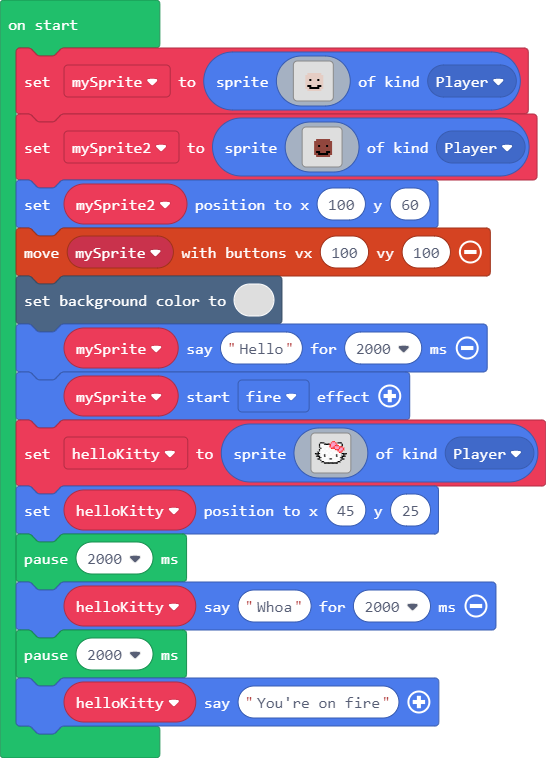
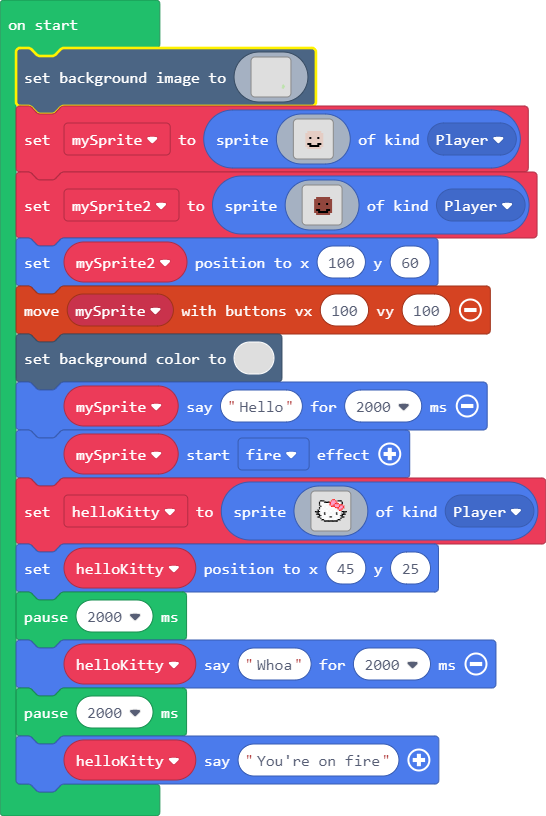
Added tree to background image

diff --git a/main.ts b/main.ts
@@ -1,3 +1,125 @@
+scene.setBackgroundImage(img`
+. . . . . . . . . . . . . . . . . . . . . . . . . . . . . . . . . . . . . . . . . . . . . . . . . . . . . . . . . . . . . . . . . . . . . . . . . . . . . . . . . . . . . . . . . . . . . . . . . . . . . . . . . . . . . . . . . . . . . . . . . . . . . . . . . . . . . . . . . . . . . . . . . . . . . . . . . . . . . . . . 
+. . . . . . . . . . . . . . . . . . . . . . . . . . . . . . . . . . . . . . . . . . . . . . . . . . . . . . . . . . . . . . . . . . . . . . . . . . . . . . . . . . . . . . . . . . . . . . . . . . . . . . . . . . . . . . . . . . . . . . . . . . . . . . . . . . . . . . . . . . . . . . . . . . . . . . . . . . . . . . . . 
+. . . . . . . . . . . . . . . . . . . . . . . . . . . . . . . . . . . . . . . . . . . . . . . . . . . . . . . . . . . . . . . . . . . . . . . . . . . . . . . . . . . . . . . . . . . . . . . . . . . . . . . . . . . . . . . . . . . . . . . . . . . . . . . . . . . . . . . . . . . . . . . . . . . . . . . . . . . . . . . . 
+. . . . . . . . . . . . . . . . . . . . . . . . . . . . . . . . . . . . . . . . . . . . . . . . . . . . . . . . . . . . . . . . . . . . . . . . . . . . . . . . . . . . . . . . . . . . . . . . . . . . . . . . . . . . . . . . . . . . . . . . . . . . . . . . . . . . . . . . . . . . . . . . . . . . . . . . . . . . . . . . 
+. . . . . . . . . . . . . . . . . . . . . . . . . . . . . . . . . . . . . . . . . . . . . . . . . . . . . . . . . . . . . . . . . . . . . . . . . . . . . . . . . . . . . . . . . . . . . . . . . . . . . . . . . . . . . . . . . . . . . . . . . . . . . . . . . . . . . . . . . . . . . . . . . . . . . . . . . . . . . . . . 
+. . . . . . . . . . . . . . . . . . . . . . . . . . . . . . . . . . . . . . . . . . . . . . . . . . . . . . . . . . . . . . . . . . . . . . . . . . . . . . . . . . . . . . . . . . . . . . . . . . . . . . . . . . . . . . . . . . . . . . . . . . . . . . . . . . . . . . . . . . . . . . . . . . . . . . . . . . . . . . . . 
+. . . . . . . . . . . . . . . . . . . . . . . . . . . . . . . . . . . . . . . . . . . . . . . . . . . . . . . . . . . . . . . . . . . . . . . . . . . . . . . . . . . . . . . . . . . . . . . . . . . . . . . . . . . . . . . . . . . . . . . . . . . . . . . . . . . . . . . . . . . . . . . . . . . . . . . . . . . . . . . . 
+. . . . . . . . . . . . . . . . . . . . . . . . . . . . . . . . . . . . . . . . . . . . . . . . . . . . . . . . . . . . . . . . . . . . . . . . . . . . . . . . . . . . . . . . . . . . . . . . . . . . . . . . . . . . . . . . . . . . . . . . . . . . . . . . . . . . . . . . . . . . . . . . . . . . . . . . . . . . . . . . 
+. . . . . . . . . . . . . . . . . . . . . . . . . . . . . . . . . . . . . . . . . . . . . . . . . . . . . . . . . . . . . . . . . . . . . . . . . . . . . . . . . . . . . . . . . . . . . . . . . . . . . . . . . . . . . . . . . . . . . . . . . . . . . . . . . . . . . . . . . . . . . . . . . . . . . . . . . . . . . . . . 
+. . . . . . . . . . . . . . . . . . . . . . . . . . . . . . . . . . . . . . . . . . . . . . . . . . . . . . . . . . . . . . . . . . . . . . . . . . . . . . . . . . . . . . . . . . . . . . . . . . . . . . . . . . . . . . . . . . . . . . . . . . . . . . . . . . . . . . . . . . . . . . . . . . . . . . . . . . . . . . . . 
+. . . . . . . . . . . . . . . . . . . . . . . . . . . . . . . . . . . . . . . . . . . . . . . . . . . . . . . . . . . . . . . . . . . . . . . . . . . . . . . . . . . . . . . . . . . . . . . . . . . . . . . . . . . . . . . . . . . . . . . . . . . . . . . . . . . . . . . . . . . . . . . . . . . . . . . . . . . . . . . . 
+. . . . . . . . . . . . . . . . . . . . . . . . . . . . . . . . . . . . . . . . . . . . . . . . . . . . . . . . . . . . . . . . . . . . . . . . . . . . . . . . . . . . . . . . . . . . . . . . . . . . . . . . . . . . . . . . . . . . . . . . . . . . . . . . . . . . . . . . . . . . . . . . . . . . . . . . . . . . . . . . 
+. . . . . . . . . . . . . . . . . . . . . . . . . . . . . . . . . . . . . . . . . . . . . . . . . . . . . . . . . . . . . . . . . . . . . . . . . . . . . . . . . . . . . . . . . . . . . . . . . . . . . . . . . . . . . . . . . . . . . . . . . . . . . . . . . . . . . . . . . . . . . . . . . . . . . . . . . . . . . . . . 
+. . . . . . . . . . . . . . . . . . . . . . . . . . . . . . . . . . . . . . . . . . . . . . . . . . . . . . . . . . . . . . . . . . . . . . . . . . . . . . . . . . . . . . . . . . . . . . . . . . . . . . . . . . . . . . . . . . . . . . . . . . . . . . . . . . . . . . . . . . . . . . . . . . . . . . . . . . . . . . . . 
+. . . . . . . . . . . . . . . . . . . . . . . . . . . . . . . . . . . . . . . . . . . . . . . . . . . . . . . . . . . . . . . . . . . . . . . . . . . . . . . . . . . . . . . . . . . . . . . . . . . . . . . . . . . . . . . . . . . . . . . . . . . . . . . . . . . . . . . . . . . . . . . . . . . . . . . . . . . . . . . . 
+. . . . . . . . . . . . . . . . . . . . . . . . . . . . . . . . . . . . . . . . . . . . . . . . . . . . . . . . . . . . . . . . . . . . . . . . . . . . . . . . . . . . . . . . . . . . . . . . . . . . . . . . . . . . . . . . . . . . . . . . . . . . . . . . . . . . . . . . . . . . . . . . . . . . . . . . . . . . . . . . 
+. . . . . . . . . . . . . . . . . . . . . . . . . . . . . . . . . . . . . . . . . . . . . . . . . . . . . . . . . . . . . . . . . . . . . . . . . . . . . . . . . . . . . . . . . . . . . . . . . . . . . . . . . . . . . . . . . . . . . . . . . . . . . . . . . . . . . . . . . . . . . . . . . . . . . . . . . . . . . . . . 
+. . . . . . . . . . . . . . . . . . . . . . . . . . . . . . . . . . . . . . . . . . . . . . . . . . . . . . . . . . . . . . . . . . . . . . . . . . . . . . . . . . . . . . . . . . . . . . . . . . . . . . . . . . . . . . . . . . . . . . . . . . . . . . . . . . . . . . . . . . . . . . . . . . . . . . . . . . . . . . . . 
+. . . . . . . . . . . . . . . . . . . . . . . . . . . . . . . . . . . . . . . . . . . . . . . . . . . . . . . . . . . . . . . . . . . . . . . . . . . . . . . . . . . . . . . . . . . . . . . . . . . . . . . . . . . . . . . . . . . . . . . . . . . . . . . . . . . . . . . . . . . . . . . . . . . . . . . . . . . . . . . . 
+. . . . . . . . . . . . . . . . . . . . . . . . . . . . . . . . . . . . . . . . . . . . . . . . . . . . . . . . . . . . . . . . . . . . . . . . . . . . . . . . . . . . . . . . . . . . . . . . . . . . . . . . . . . . . . . . . . . . . . . . . . . . . . . . . . . . . . . . . . . . . . . . . . . . . . . . . . . . . . . . 
+. . . . . . . . . . . . . . . . . . . . . . . . . . . . . . . . . . . . . . . . . . . . . . . . . . . . . . . . . . . . . . . . . . . . . . . . . . . . . . . . . . . . . . . . . . . . . . . . . . . . . . . . . . . . . . . . . . . . . . . . . . . . . . . . . . . . . . . . . . . . . . . . . . . . . . . . . . . . . . . . 
+. . . . . . . . . . . . . . . . . . . . . . . . . . . . . . . . . . . . . . . . . . . . . . . . . . . . . . . . . . . . . . . . . . . . . . . . . . . . . . . . . . . . . . . . . . . . . . . . . . . . . . . . . . . . . . . . . . . . . . . . . . . . . . . . . . . . . . . . . . . . . . . . . . . . . . . . . . . . . . . . 
+. . . . . . . . . . . . . . . . . . . . . . . . . . . . . . . . . . . . . . . . . . . . . . . . . . . . . . . . . . . . . . . . . . . . . . . . . . . . . . . . . . . . . . . . . . . . . . . . . . . . . . . . . . . . . . . . . . . . . . . . . . . . . . . . . . . . . . . . . . . . . . . . . . . . . . . . . . . . . . . . 
+. . . . . . . . . . . . . . . . . . . . . . . . . . . . . . . . . . . . . . . . . . . . . . . . . . . . . . . . . . . . . . . . . . . . . . . . . . . . . . . . . . . . . . . . . . . . . . . . . . . . . . . . . . . . . . . . . . . . . . . . . . . . . . . . . . . . . . . . . . . . . . . . . . . . . . . . . . . . . . . . 
+. . . . . . . . . . . . . . . . . . . . . . . . . . . . . . . . . . . . . . . . . . . . . . . . . . . . . . . . . . . . . . . . . . . . . . . . . . . . . . . . . . . . . . . . . . . . . . . . . . . . . . . . . . . . . . . . . . . . . . . . . . . . . . . . . . . . . . . . . . . . . . . . . . . . . . . . . . . . . . . . 
+. . . . . . . . . . . . . . . . . . . . . . . . . . . . . . . . . . . . . . . . . . . . . . . . . . . . . . . . . . . . . . . . . . . . . . . . . . . . . . . . . . . . . . . . . . . . . . . . . . . . . . . . . . . . . . . . . . . . . . . . . . . . . . . . . . . . . . . . . . . . . . . . . . . . . . . . . . . . . . . . 
+. . . . . . . . . . . . . . . . . . . . . . . . . . . . . . . . . . . . . . . . . . . . . . . . . . . . . . . . . . . . . . . . . . . . . . . . . . . . . . . . . . . . . . . . . . . . . . . . . . . . . . . . . . . . . . . . . . . . . . . . . . . . . . . . . . . . . . . . . . . . . . . . . . . . . . . . . . . . . . . . 
+. . . . . . . . . . . . . . . . . . . . . . . . . . . . . . . . . . . . . . . . . . . . . . . . . . . . . . . . . . . . . . . . . . . . . . . . . . . . . . . . . . . . . . . . . . . . . . . . . . . . . . . . . . . . . . . . . . . . . . . . . . . . . . . . . . . . . . . . . . . . . . . . . . . . . . . . . . . . . . . . 
+. . . . . . . . . . . . . . . . . . . . . . . . . . . . . . . . . . . . . . . . . . . . . . . . . . . . . . . . . . . . . . . . . . . . . . . . . . . . . . . . . . . . . . . . . . . . . . . . . . . . . . . . . . . . . . . . . . . . . . . . . . . . . . . . . . . . . . . . . . . . . . . . . . . . . . . . . . . . . . . . 
+. . . . . . . . . . . . . . . . . . . . . . . . . . . . . . . . . . . . . . . . . . . . . . . . . . . . . . . . . . . . . . . . . . . . . . . . . . . . . . . . . . . . . . . . . . . . . . . . . . . . . . . . . . . . . . . . . . . . . . . . . . . . . . . . . . . . . . . . . . . . . . . . . . . . . . . . . . . . . . . . 
+. . . . . . . . . . . . . . . . . . . . . . . . . . . . . . . . . . . . . . . . . . . . . . . . . . . . . . . . . . . . . . . . . . . . . . . . . . . . . . . . . . . . . . . . . . . . . . . . . . . . . . . . . . . . . . . . . . . . . . . . . . . . . . . . . . . . . . . . . . . . . . . . . . . . . . . . . . . . . . . . 
+. . . . . . . . . . . . . . . . . . . . . . . . . . . . . . . . . . . . . . . . . . . . . . . . . . . . . . . . . . . . . . . . . . . . . . . . . . . . . . . . . . . . . . . . . . . . . . . . . . . . . . . . . . . . . . . . . . . . . . . . . . . . . . . . . . . . . . . . . . . . . . . . . . . . . . . . . . . . . . . . 
+. . . . . . . . . . . . . . . . . . . . . . . . . . . . . . . . . . . . . . . . . . . . . . . . . . . . . . . . . . . . . . . . . . . . . . . . . . . . . . . . . . . . . . . . . . . . . . . . . . . . . . . . . . . . . . . . . . . . . . . . . . . . . . . . . . . . . . . . . . . . . . . . . . . . . . . . . . . . . . . . 
+. . . . . . . . . . . . . . . . . . . . . . . . . . . . . . . . . . . . . . . . . . . . . . . . . . . . . . . . . . . . . . . . . . . . . . . . . . . . . . . . . . . . . . . . . . . . . . . . . . . . . . . . . . . . . . . . . . . . . . . . . . . . . . . . . . . . . . . . . . . . . . . . . . . . . . . . . . . . . . . . 
+. . . . . . . . . . . . . . . . . . . . . . . . . . . . . . . . . . . . . . . . . . . . . . . . . . . . . . . . . . . . . . . . . . . . . . . . . . . . . . . . . . . . . . . . . . . . . . . . . . . . . . . . . . . . . . . . . . . . . . . . . . . . . . . . . . . . . . . . . . . . . . . . . . . . . . . . . . . . . . . . 
+. . . . . . . . . . . . . . . . . . . . . . . . . . . . . . . . . . . . . . . . . . . . . . . . . . . . . . . . . . . . . . . . . . . . . . . . . . . . . . . . . . . . . . . . . . . . . . . . . . . . . . . . . . . . . . . . . . . . . . . . . . . . . . . . . . . . . . . . . . . . . . . . . . . . . . . . . . . . . . . . 
+. . . . . . . . . . . . . . . . . . . . . . . . . . . . . . . . . . . . . . . . . . . . . . . . . . . . . . . . . . . . . . . . . . . . . . . . . . . . . . . . . . . . . . . . . . . . . . . . . . . . . . . . . . . . . . . . . . . . . . . . . . . . . . . . . . . . . . . . . . . . . . . . . . . . . . . . . . . . . . . . 
+. . . . . . . . . . . . . . . . . . . . . . . . . . . . . . . . . . . . . . . . . . . . . . . . . . . . . . . . . . . . . . . . . . . . . . . . . . . . . . . . . . . . . . . . . . . . . . . . . . . . . . . . . . . . . . . . . . . . . . . . . . . . . . . . . . . . . . . . . . . . . . . . . . . . . . . . . . . . . . . . 
+. . . . . . . . . . . . . . . . . . . . . . . . . . . . . . . . . . . . . . . . . . . . . . . . . . . . . . . . . . . . . . . . . . . . . . . . . . . . . . . . . . . . . . . . . . . . . . . . . . . . . . . . . . . . . . . . . . . . . . . . . . . . . . . . . . . . . . . . . . . . . . . . . . . . . . . . . . . . . . . . 
+. . . . . . . . . . . . . . . . . . . . . . . . . . . . . . . . . . . . . . . . . . . . . . . . . . . . . . . . . . . . . . . . . . . . . . . . . . . . . . . . . . . . . . . . . . . . . . . . . . . . . . . . . . . . . . . . . . . . . . . . . . . . . . . . . . . . . . . . . . . . . . . . . . . . . . . . . . . . . . . . 
+. . . . . . . . . . . . . . . . . . . . . . . . . . . . . . . . . . . . . . . . . . . . . . . . . . . . . . . . . . . . . . . . . . . . . . . . . . . . . . . . . . . . . . . . . . . . . . . . . . . . . . . . . . . . . . . . . . . . . . . . . . . . . . . . . . . . . . . . . . . . . . . . . . . . . . . . . . . . . . . . 
+. . . . . . . . . . . . . . . . . . . . . . . . . . . . . . . . . . . . . . . . . . . . . . . . . . . . . . . . . . . . . . . . . . . . . . . . . . . . . . . . . . . . . . . . . . . . . . . . . . . . . . . . . . . . . . . . . . . . . . . . . . . . . . . . . . . . . . . . . . . . . . . . . . . . . . . . . . . . . . . . 
+. . . . . . . . . . . . . . . . . . . . . . . . . . . . . . . . . . . . . . . . . . . . . . . . . . . . . . . . . . . . . . . . . . . . . . . . . . . . . . . . . . . . . . . . . . . . . . . . . . . . . . . . . . . . . . . . . . . . . . . . . . . . . . . . . . . . . . . . . . . . . . . . . . . . . . . . . . . . . . . . 
+. . . . . . . . . . . . . . . . . . . . . . . . . . . . . . . . . . . . . . . . . . . . . . . . . . . . . . . . . . . . . . . . . . . . . . . . . . . . . . . . . . . . . . . . . . . . . . . . . . . . . . . . . . . . . . . . . . . . . . . . . . . . . . . . . . . . . . . . . . . . . . . . . . . . . . . . . . . . . . . . 
+. . . . . . . . . . . . . . . . . . . . . . . . . . . . . . . . . . . . . . . . . . . . . . . . . . . . . . . . . . . . . . . . . . . . . . . . . . . . . . . . . . . . . . . . . . . . . . . . . . . . . . . . . . . . . . . . . . . . . . . . . . . . . . . . . . . . . . . . . . . . . . . . . . . . . . . . . . . . . . . . 
+. . . . . . . . . . . . . . . . . . . . . . . . . . . . . . . . . . . . . . . . . . . . . . . . . . . . . . . . . . . . . . . . . . . . . . . . . . . . . . . . . . . . . . . . . . . . . . . . . . . . . . . . . . . . . . . . . . . . . . . . . . . . . . . . . . . . . . . . . . . . . . . . . . . . . . . . . . . . . . . . 
+. . . . . . . . . . . . . . . . . . . . . . . . . . . . . . . . . . . . . . . . . . . . . . . . . . . . . . . . . . . . . . . . . . . . . . . . . . . . . . . . . . . . . . . . . . . . . . . . . . . . . . . . . . . . . . . . . . . . . . . . . . . . . . . . . . . . . . . . . . . . . . . . . . . . . . . . . . . . . . . . 
+. . . . . . . . . . . . . . . . . . . . . . . . . . . . . . . . . . . . . . . . . . . . . . . . . . . . . . . . . . . . . . . . . . . . . . . . . . . . . . . . . . . . . . . . . . . . . . . . . . . . . . . . . . . . . . . . . . . . . . . . . . . . . . . . . . . . . . . . . . . . . . . . . . . . . . . . . . . . . . . . 
+. . . . . . . . . . . . . . . . . . . . . . . . . . . . . . . . . . . . . . . . . . . . . . . . . . . . . . . . . . . . . . . . . . . . . . . . . . . . . . . . . . . . . . . . . . . . . . . . . . . . . . . . . . . . . . . . . . . . . . . . . . . . . . . . . . . . . . . . . . . . . . . . . . . . . . . . . . . . . . . . 
+. . . . . . . . . . . . . . . . . . . . . . . . . . . . . . . . . . . . . . . . . . . . . . . . . . . . . . . . . . . . . . . . . . . . . . . . . . . . . . . . . . . . . . . . . . . . . . . . . . . . . . . . . . . . . . . . . . . . . . . . . . . . . . . . . . . . . . . . . . . . . . . . . . . . . . . . . . . . . . . . 
+. . . . . . . . . . . . . . . . . . . . . . . . . . . . . . . . . . . . . . . . . . . . . . . . . . . . . . . . . . . . . . . . . . . . . . . . . . . . . . . . . . . . . . . . . . . . . . . . . . . . . . . . . . . . . . . . . . . . . . . . . . . . . . . . . . . . . . . . . . . . . . . . . . . . . . . . . . . . . . . . 
+. . . . . . . . . . . . . . . . . . . . . . . . . . . . . . . . . . . . . . . . . . . . . . . . . . . . . . . . . . . . . . . . . . . . . . . . . . . . . . . . . . . . . . . . . . . . . . . . . . . . . . . . . . . . . . . . . . . . . . . . . . . . . . . . . . . . . . . . . . . . . . . . . . . . . . . . . . . . . . . . 
+. . . . . . . . . . . . . . . . . . . . . . . . . . . . . . . . . . . . . . . . . . . . . . . . . . . . . . . . . . . . . . . . . . . . . . . . . . . . . . . . . . . . . . . . . . . . . . . . . . . . . . . . . . . . . . . . . . . . . . . . . . . . . . . . . . . . . . . . . . . . . . . . . . . . . . . . . . . . . . . . 
+. . . . . . . . . . . . . . . . . . . . . . . . . . . . . . . . . . . . . . . . . . . . . . . . . . . . . . . . . . . . . . . . . . . . . . . . . . . . . . . . . . . . . . . . . . . . . . . . . . . . . . . . . . . . . . . . . . . . . . . . . . . . . . . . . . . . . . . . . . . . . . . . . . . . . . . . . . . . . . . . 
+. . . . . . . . . . . . . . . . . . . . . . . . . . . . . . . . . . . . . . . . . . . . . . . . . . . . . . . . . . . . . . . . . . . . . . . . . . . . . . . . . . . . . . . . . . . . . . . . . . . . . . . . . . . . . . . . . . . . . . . . . . . . . . . . . . . . . . . . . . . . . . . . . . . . . . . . . . . . . . . . 
+. . . . . . . . . . . . . . . . . . . . . . . . . . . . . . . . . . . . . . . . . . . . . . . . . . . . . . . . . . . . . . . . . . . . . . . . . . . . . . . . . . . . . . . . . . . . . . . . . . . . . . . . . . . . . . . . . . . . . . . . . . . . . . . . . . . . . . . . . . . . . . . . . . . . . . . . . . . . . . . . 
+. . . . . . . . . . . . . . . . . . . . . . . . . . . . . . . . . . . . . . . . . . . . . . . . . . . . . . . . . . . . . . . . . . . . . . . . . . . . . . . . . . . . . . . . . . . . . . . . . . . . . . . . . . . . . . . . . . . . . . . . . . . . . . . . . . . . . . . . . . . . . . . . . . . . . . . . . . . . . . . . 
+. . . . . . . . . . . . . . . . . . . . . . . . . . . . . . . . . . . . . . . . . . . . . . . . . . . . . . . . . . . . . . . . . . . . . . . . . . . . . . . . . . . . . . . . . . . . . . . . . . . . . . . . . . . . . . . . . . . . . . . . . . . . . . . . . . . . . . . . . . . . . . . . . . . . . . . . . . . . . . . . 
+. . . . . . . . . . . . . . . . . . . . . . . . . . . . . . . . . . . . . . . . . . . . . . . . . . . . . . . . . . . . . . . . . . . . . . . . . . . . . . . . . . . . . . . . . . . . . . . . . . . . . . . . . . . . . . . . . . . . . . . . . . . . . . . . . . . . . . . . . . . . . . . . . . . . . . . . . . . . . . . . 
+. . . . . . . . . . . . . . . . . . . . . . . . . . . . . . . . . . . . . . . . . . . . . . . . . . . . . . . . . . . . . . . . . . . . . . . . . . . . . . . . . . . . . . . . . . . . . . . . . . . . . . . . . . . . . . . . . . . . . . . . . . . . . . . . . . . . . . . . . . . . . . . . . . . . . . . . . . . . . . . . 
+. . . . . . . . . . . . . . . . . . . . . . . . . . . . . . . . . . . . . . . . . . . . . . . . . . . . . . . . . . . . . . . . . . . . . . . . . . . . . . . . . . . . . . . . . . . . . . . . . . . . . . . . . . . . . . . . . . . . . . . . . . . . . . . . . . . . . . . . . . . . . . . . . . . . . . . . . . . . . . . . 
+. . . . . . . . . . . . . . . . . . . . . . . . . . . . . . . . . . . . . . . . . . . . . . . . . . . . . . . . . . . . . . . . . . . . . . . . . . . . . . . . . . . . . . . . . . . . . . . . . . . . . . . . . . . . . . . . . . . . . . . . . . . . . . . . . . . . . . . . . . . . . . . . . . . . . . . . . . . . . . . . 
+. . . . . . . . . . . . . . . . . . . . . . . . . . . . . . . . . . . . . . . . . . . . . . . . . . . . . . . . . . . . . . . . . . . . . . . . . . . . . . . . . . . . . . . . . . . . . . . . . . . . . . . . . . . . . . . . . . . . . . . . . . . . . . . . . . . . . . . . . . . . . . . . . . . . . . . . . . . . . . . . 
+. . . . . . . . . . . . . . . . . . . . . . . . . . . . . . . . . . . . . . . . . . . . . . . . . . . . . . . . . . . . . . . . . . . . . . . . . . . . . . . . . . . . . . . . . . . . . . . . . . . . . . . . . . . . . . . . . . . . . . . . . . . . . . . . . . . . . . . . . . . . . . . . . . . . . . . . . . . . . . . . 
+. . . . . . . . . . . . . . . . . . . . . . . . . . . . . . . . . . . . . . . . . . . . . . . . . . . . . . . . . . . . . . . . . . . . . . . . . . . . . . . . . . . . . . . . . . . . . . . . . . . . . . . . . . . . . . . . . . . . . . . . . . . . . . . . . . . . . . . . . . . . . . . . . . . . . . . . . . . . . . . . 
+. . . . . . . . . . . . . . . . . . . . . . . . . . . . . . . . . . . . . . . . . . . . . . . . . . . . . . . . . . . . . . . . . . . . . . . . . . . . . . . . . . . . . . . . . . . . . . . . . . . . . . . . . . . . . . . . . . . . . . . . . . . . . . . . . . . . . . . . . . . . . . . . . . . . . . . . . . . . . . . . 
+. . . . . . . . . . . . . . . . . . . . . . . . . . . . . . . . . . . . . . . . . . . . . . . . . . . . . . . . . . . . . . . . . . . . . . . . . . . . . . . . . . . . . . . . . . . . . . . . . . . . . . . . . . . . . . . . . . . . . . . . . . . . . . . . . . . . . . . . . . . . . . . . . . . . . . . . . . . . . . . . 
+. . . . . . . . . . . . . . . . . . . . . . . . . . . . . . . . . . . . . . . . . . . . . . . . . . . . . . . . . . . . . . . . . . . . . . . . . . . . . . . . . . . . . . . . . . . . . . . . . . . . . . . . . . . . . . . . . . . . . . . . . . . . . . . . . . . . . . . . . . . . . . . . . . . . . . . . . . . . . . . . 
+. . . . . . . . . . . . . . . . . . . . . . . . . . . . . . . . . . . . . . . . . . . . . . . . . . . . . . . . . . . . . . . . . . . . . . . . . . . . . . . . . . . . . . . . . . . . . . . . . . . . . . . . . . . . . . . . . . . . . . . . . . . . . . . . . . . . . . . . . . . . . . . . . . . . . . . . . . . . . . . . 
+. . . . . . . . . . . . . . . . . . . . . . . . . . . . . . . . . . . . . . . . . . . . . . . . . . . . . . . . . . . . . . . . . . . . . . . . . . . . . . . . . . . . . . . . . . . . . . . . . . . . . . . . . . . . . . . . . . . . . . . . . . . . . . . . . . . . . . . . . . . . . . . . . . . . . . . . . . . . . . . . 
+. . . . . . . . . . . . . . . . . . . . . . . . . . . . . . . . . . . . . . . . . . . . . . . . . . . . . . . . . . . . . . . . . . . . . . . . . . . . . . . . . . . . . . . . . . . . . . . . . . . . . . . . . . . . . . . . . . . . . . . . . . . . . . . . . . . . . . . . . . . . . . . . . . . . . . . . . . . . . . . . 
+. . . . . . . . . . . . . . . . . . . . . . . . . . . . . . . . . . . . . . . . . . . . . . . . . . . . . . . . . . . . . . . . . . . . . . . . . . . . . . . . . . . . . . . . . . . . . . . . . . . . . . . . . . . . . . . . . . . . . . . . . . . . . . . . . . . . . . . . . . . . . . . . . . . . . . . . . . . . . . . . 
+. . . . . . . . . . . . . . . . . . . . . . . . . . . . . . . . . . . . . . . . . . . . . . . . . . . . . . . . . . . . . . . . . . . . . . . . . . . . . . . . . . . . . . . . . . . . . . . . . . . . . . . . . . . . . . . . . . . . . . . . . . . . . . . . . . . . . . . . . . . . . . . . . . . . . . . . . . . . . . . . 
+. . . . . . . . . . . . . . . . . . . . . . . . . . . . . . . . . . . . . . . . . . . . . . . . . . . . . . . . . . . . . . . . . . . . . . . . . . . . . . . . . . . . . . . . . . . . . . . . . . . . . . . . . . . . . . . . . . . . . . . . . . . . . . . . . . . . . . . . . . . . . . . . . . . . . . . . . . . . . . . . 
+. . . . . . . . . . . . . . . . . . . . . . . . . . . . . . . . . . . . . . . . . . . . . . . . . . . . . . . . . . . . . . . . . . . . . . . . . . . . . . . . . . . . . . . . . . . . . . . . . . . . . . . . . . . . . . . . . . . . . . . . . . . . . . . . . . . . . . . . . . . . . . . . . . . . . . . . . . . . . . . . 
+. . . . . . . . . . . . . . . . . . . . . . . . . . . . . . . . . . . . . . . . . . . . . . . . . . . . . . . . . . . . . . . . . . . . . . . . . . . . . . . . . . . . . . . . . . . . . . . . . . . . . . . . . . . . . . . . . . . . . . . . . . . . . . . . . . . . . . . . . . . . . . . . . . . . . . . . . . . . . . . . 
+. . . . . . . . . . . . . . . . . . . . . . . . . . . . . . . . . . . . . . . . . . . . . . . . . . . . . . . . . . . . . . . . . . . . . . . . . . . . . . . . . . . . . . . . . . . . . . . . . . . . . . . . . . . . . . . . . . . . . . . . . . . . . . . . . . . . . . . . . . . . . . . . . . . . . . . . . . . . . . . . 
+. . . . . . . . . . . . . . . . . . . . . . . . . . . . . . . . . . . . . . . . . . . . . . . . . . . . . . . . . . . . . . . . . . . . . . . . . . . . . . . . . . . . . . . . . . . . . . . . . . . . . . . . . . . . . . . . . . . . . . . . . . . . . . . . . . . . . . . . . . . . . . . . . . . . . . . . . . . . . . . . 
+. . . . . . . . . . . . . . . . . . . . . . . . . . . . . . . . . . . . . . . . . . . . . . . . . . . . . . . . . . . . . . . . . . . . . . . . . . . . . . . . . . . . . . . . . . . . . . . . . . . . . . . . . . . . . . . . . . . . . . . . . . . . . . . . . . . . . . . . . . . . . . . . . . . . . . . . . . . . . . . . 
+. . . . . . . . . . . . . . . . . . . . . . . . . . . . . . . . . . . . . . . . . . . . . . . . . . . . . . . . . . . . . . . . . . . . . . . . . . . . . . . . . . . . . . . . . . . . . . . . . . . . . . . . . . . . . . . . . . . . . . . . . . . . . . . . . . . . . . . . . . . . . . . . . . . . . . . . . . . . . . . . 
+. . . . . . . . . . . . . . . . . . . . . . . . . . . . . . . . . . . . . . . . . . . . . . . . . . . . . . . . . . . . . . . . . . . . . . . . . . . . . . . . . . . . . . . . . . . . . . . . . . . . . . . . . . . . . . . . . . . . . . . . . . . . . . . . . . . . . . . . . . . . . . . . . . . . . . . . . . . . . . . . 
+. . . . . . . . . . . . . . . . . . . . . . . . . . . . . . . . . . . . . . . . . . . . . . . . . . . . . . . . . . . . . . . . . . . . . . . . . . . . . . . . . . . . . . . . . . . . . . . . . . . . . . . . . . . . . . . . . . . . . . . . . . . . . . . . . . . . . . . . . . . . . . . . . . . . . . . . . . . . . . . . 
+. . . . . . . . . . . . . . . . . . . . . . . . . . . . . . . . . . . . . . . . . . . . . . . . . . . . . . . . . . . . . . . . . . . . . . . . . . . . . . . . . . . . . . . . . . . . . . . . . . . . . . . . . . . . . . . . . . . . . . . . . . . . . . . . . . . . . . . . . . . . . . . . . . . . . . . . . . . . . . . . 
+. . . . . . . . . . . . . . . . . . . . . . . . . . . . . . . . . . . . . . . . . . . . . . . . . . . . . . . . . . . . . . . . . . . . . . . . . . . . . . . . . . . . . . . . . . . . . . . . . . . . . . . . . . . . . . . . . . . . . . . . . . . . . . . . . . . . . . . . . . . . . . . . . . . . . . . . . . . . . . . . 
+. . . . . . . . . . . . . . . . . . . . . . . . . . . . . . . . . . . . . . . . . . . . . . . . . . . . . . . . . . . . . . . . . . . . . . . . . . . . . . . . . . . . . . . . . . . . . . . . . . . . . . . . . . . . . . . . . . . . . . . . . . . . . . . . . . . . . . . . . . . . . . . . . . . . . . . . . . . . . . . . 
+. . . . . . . . . . . . . . . . . . . . . . . . . . . . . . . . . . . . . . . . . . . . . . . . . . . . . . . . . . . . . . . . . . . . . . . . . . . . . . . . . . . . . . . . . . . . . . . . . . . . . . . . . . . . . . . . . . . . . . . . . . . . . . . . . . . . . . . . . . . . . . . . . . . . . . . . . . . . . . . . 
+. . . . . . . . . . . . . . . . . . . . . . . . . . . . . . . . . . . . . . . . . . . . . . . . . . . . . . . . . . . . . . . . . . . . . . . . . . . . . . . . . . . . . . . . . . . . . . . . . . . . . . . . . . . . . . . . . . . . . . . . . . . . . . . . . . . . . . . . . . . . . . . . . . . . . . . . . . . . . . . . 
+. . . . . . . . . . . . . . . . . . . . . . . . . . . . . . . . . . . . . . . . . . . . . . . . . . . . . . . . . . . . . . . . . . . . . . . . . . . . . . . . . . . . . . . . . . . . . . . . . . . . . . . . . . . . . . . . . . . . . . . . . . . . . . . . . . . . . . . . . . . . . . . . . . . . . . . . . . . . . . . . 
+. . . . . . . . . . . . . . . . . . . . . . . . . . . . . . . . . . . . . . . . . . . . . . . . . . . . . . . . . . . . . . . . . . . . . . . . . . . . . . . . . . . . . . . . . . . . . . . . . . . . . . . . . . . . . . . . . . . . . . . . . . . . . . . . . . . . . . . . . . . . . . . . . . . . . . . . . . . . . . . . 
+. . . . . . . . . . . . . . . . . . . . . . . . . . . . . . . . . . . . . . . . . . . . . . . . . . . . . . . . . . . . . . . . . . . . . . . . . . . . . . . . . . . . . . . . . . . . . . . . . . . . . . . . . . . . . . . . . . . . . . . . . . . . . . . . . . . . . . . . . . . . . . . . . . . . . . . . . . . . . . . . 
+. . . . . . . . . . . . . . . . . . . . . . . . . . . . . . . . . . . . . . . . . . . . . . . . . . . . . . . . . . . . . . . . . . . . . . . . . . . . . . . . . . . . . . . . . . . . . . . . . . . . . . . . . . . . . . . . . . . . . . . . . . . . . . . . . . . . . . . . . . . . . . . . . . . . . . . . . . . . . . . . 
+. . . . . . . . . . . . . . . . . . . . . . . . . . . . . . . . . . . . . . . . . . . . . . . . . . . . . . . . . . . . . . . . . . . . . . . . . . . . . . . . . . . . . . . . . . . . . . . . . . . . . . . . . . . . . . . . . . . . . . . . . . . . . . . . . . . . . . . . . . . . . . . . . . . . . . . . . . . . . . . . 
+. . . . . . . . . . . . . . . . . . . . . . . . . . . . . . . . . . . . . . . . . . . . . . . . . . . . . . . . . . . . . . . . . . . . . . . . . . . . . . . . . . . . . . . . . . . . . . . . . . . . . . . . . . . . . . . . . . . . . . . . . . . . . . . . . . . . . . . . . . . . . . . . . . . . . . . . . . . . . . . . 
+. . . . . . . . . . . . . . . . . . . . . . . . . . . . . . . . . . . . . . . . . . . . . . . . . . . . . . . . . . . . . . . . . . . . . . . . . . . . . . . . . . . . . . . . . . . . . . . . . . . . . . . . . . . . . . . . . . . . . . . . . . . . . . . . . . . . . . . . . . . . . . . . . . . . . . . . . . . . . . . . 
+. . . . . . . . . . . . . . . . . . . . . . . . . . . . . . . . . . . . . . . . . . . . . . . . . . . . . . . . . . . . . . . . . . . . . . . . . . . . . . . . . . . . . . . . . . . . . . . . . . . . . . . . . . . . . . . . . . . . . . . . . . . . . . . . . . . . . . . . . . . . . . . . . . . . . . . . . . . . . . . . 
+. . . . . . . . . . . . . . . . . . . . . . . . . . . . . . . . . . . . . . . . . . . . . . . . . . . . . . . . . . . . . . . . . . . . . . . . . . . . . . . . . . . . . . . . . . . . . . . . . . . . . . . . . . . . . . . . . . . . . . . . . . . . . . . . . . . . . . . . . . . . . . . . . . . . . . . . . . . . . . . . 
+. . . . . . . . . . . . . . . . . . . . . . . . . . . . . . . . . . . . . . . . . . . . . . . . . . . . . . . . . . . . . . . . . . . . . . . . . . . . . . . . . . . . . . . . . . . . . . . . . . . . . . . . . . . . . . . . . . . . . . . . . . . . . . . . . . . . . . . . . . . . 7 7 . . . . . . . . . . . . . . . . . . 
+. . . . . . . . . . . . . . . . . . . . . . . . . . . . . . . . . . . . . . . . . . . . . . . . . . . . . . . . . . . . . . . . . . . . . . . . . . . . . . . . . . . . . . . . . . . . . . . . . . . . . . . . . . . . . . . . . . . . . . . . . . . . . . . . . . . . . . . . . . . 7 7 7 7 . . . . . . . . . . . . . . . . . 
+. . . . . . . . . . . . . . . . . . . . . . . . . . . . . . . . . . . . . . . . . . . . . . . . . . . . . . . . . . . . . . . . . . . . . . . . . . . . . . . . . . . . . . . . . . . . . . . . . . . . . . . . . . . . . . . . . . . . . . . . . . . . . . . . . . . . . . . . . . 7 7 7 7 7 . . . . . . . . . . . . . . . . . 
+. . . . . . . . . . . . . . . . . . . . . . . . . . . . . . . . . . . . . . . . . . . . . . . . . . . . . . . . . . . . . . . . . . . . . . . . . . . . . . . . . . . . . . . . . . . . . . . . . . . . . . . . . . . . . . . . . . . . . . . . . . . . . . . . . . . . . . . . . . 7 7 7 7 7 7 . . . . . . . . . . . . . . . . 
+. . . . . . . . . . . . . . . . . . . . . . . . . . . . . . . . . . . . . . . . . . . . . . . . . . . . . . . . . . . . . . . . . . . . . . . . . . . . . . . . . . . . . . . . . . . . . . . . . . . . . . . . . . . . . . . . . . . . . . . . . . . . . . . . . . . . . . . . . 7 7 7 7 7 7 7 7 . . . . . . . . . . . . . . . 
+. . . . . . . . . . . . . . . . . . . . . . . . . . . . . . . . . . . . . . . . . . . . . . . . . . . . . . . . . . . . . . . . . . . . . . . . . . . . . . . . . . . . . . . . . . . . . . . . . . . . . . . . . . . . . . . . . . . . . . . . . . . . . . . . . . . . . . . . 7 7 7 7 7 7 7 7 7 7 . . . . . . . . . . . . . . 
+. . . . . . . . . . . . . . . . . . . . . . . . . . . . . . . . . . . . . . . . . . . . . . . . . . . . . . . . . . . . . . . . . . . . . . . . . . . . . . . . . . . . . . . . . . . . . . . . . . . . . . . . . . . . . . . . . . . . . . . . . . . . . . . . . . . . . . . 7 7 7 7 7 7 7 7 7 7 7 . 7 7 7 7 . . . . . . . . . 
+. . . . . . . . . . . . . . . . . . . . . . . . . . . . . . . . . . . . . . . . . . . . . . . . . . . . . . . . . . . . . . . . . . . . . . . . . . . . . . . . . . . . . . . . . . . . . . . . . . . . . . . . . . . . . . . . . . . . . . . . . . . . . . . . . . . . . . 7 7 7 7 7 7 7 7 7 7 7 7 7 . . . . . . . . . . . . . 
+. . . . . . . . . . . . . . . . . . . . . . . . . . . . . . . . . . . . . . . . . . . . . . . . . . . . . . . . . . . . . . . . . . . . . . . . . . . . . . . . . . . . . . . . . . . . . . . . . . . . . . . . . . . . . . . . . . . . . . . . . . . . . . . . . . . . . . . . . . 7 7 7 7 7 7 7 7 7 7 . . . . . . . . . . . . 
+. . . . . . . . . . . . . . . . . . . . . . . . . . . . . . . . . . . . . . . . . . . . . . . . . . . . . . . . . . . . . . . . . . . . . . . . . . . . . . . . . . . . . . . . . . . . . . . . . . . . . . . . . . . . . . . . . . . . . . . . . . . . . . . . . . . . . . . . . 7 7 7 7 7 7 7 7 7 7 7 . . . . . . . . . . . . 
+. . . . . . . . . . . . . . . . . . . . . . . . . . . . . . . . . . . . . . . . . . . . . . . . . . . . . . . . . . . . . . . . . . . . . . . . . . . . . . . . . . . . . . . . . . . . . . . . . . . . . . . . . . . . . . . . . . . . . . . . . . . . . . . . . . . . . . . . 7 7 7 7 7 7 7 7 7 7 7 7 7 7 . . . . . . . . . . 
+. . . . . . . . . . . . . . . . . . . . . . . . . . . . . . . . . . . . . . . . . . . . . . . . . . . . . . . . . . . . . . . . . . . . . . . . . . . . . . . . . . . . . . . . . . . . . . . . . . . . . . . . . . . . . . . . . . . . . . . . . . . . . . . . . . . . . . . 7 7 7 7 7 7 7 7 7 7 7 7 7 7 7 7 . . . . . . . . . 
+. . . . . . . . . . . . . . . . . . . . . . . . . . . . . . . . . . . . . . . . . . . . . . . . . . . . . . . . . . . . . . . . . . . . . . . . . . . . . . . . . . . . . . . . . . . . . . . . . . . . . . . . . . . . . . . . . . . . . . . . . . . . . . . . . . . . . . 7 7 7 7 7 7 7 7 7 7 7 7 7 7 7 7 7 . . . . . . . . . 
+. . . . . . . . . . . . . . . . . . . . . . . . . . . . . . . . . . . . . . . . . . . . . . . . . . . . . . . . . . . . . . . . . . . . . . . . . . . . . . . . . . . . . . . . . . . . . . . . . . . . . . . . . . . . . . . . . . . . . . . . . . . . . . . . . . . . . . . . . . 7 7 7 7 7 7 7 7 7 7 . . . . . . . . . . . . 
+. . . . . . . . . . . . . . . . . . . . . . . . . . . . . . . . . . . . . . . . . . . . . . . . . . . . . . . . . . . . . . . . . . . . . . . . . . . . . . . . . . . . . . . . . . . . . . . . . . . . . . . . . . . . . . . . . . . . . . . . . . . . . . . . . . . . . . . . . 7 7 7 7 7 7 7 7 7 . . . . . . . . . . . . . . 
+. . . . . . . . . . . . . . . . . . . . . . . . . . . . . . . . . . . . . . . . . . . . . . . . . . . . . . . . . . . . . . . . . . . . . . . . . . . . . . . . . . . . . . . . . . . . . . . . . . . . . . . . . . . . . . . . . . . . . . . . . . . . . . . . . . . . . . . . 7 7 7 7 7 7 7 7 7 7 . . . . . . . . . . . . . . 
+. . . . . . . . . . . . . . . . . . . . . . . . . . . . . . . . . . . . . . . . . . . . . . . . . . . . . . . . . . . . . . . . . . . . . . . . . . . . . . . . . . . . . . . . . . . . . . . . . . . . . . . . . . . . . . . . . . . . . . . . . . . . . . . . . . . . . . 7 7 7 7 7 7 7 7 7 7 7 7 7 . . . . . . . . . . . . . 
+. . . . . . . . . . . . . . . . . . . . . . . . . . . . . . . . . . . . . . . . . . . . . . . . . . . . . . . . . . . . . . . . . . . . . . . . . . . . . . . . . . . . . . . . . . . . . . . . . . . . . . . . . . . . . . . . . . . . . . . . . . . . . . . . . . . . . 7 7 7 7 7 7 7 7 7 7 7 7 7 7 7 . . . . . . . . . . . . 
+. . . . . . . . . . . . . . . . . . . . . . . . . . . . . . . . . . . . . . . . . . . . . . . . . . . . . . . . . . . . . . . . . . . . . . . . . . . . . . . . . . . . . . . . . . . . . . . . . . . . . . . . . . . . . . . . . . . . . . . . . . . . . . . . . . . . 7 7 7 7 7 7 7 7 7 7 7 7 7 7 7 7 7 . . . . . . . . . . . 
+. . . . . . . . . . . . . . . . . . . . . . . . . . . . . . . . . . . . . . . . . . . . . . . . . . . . . . . . . . . . . . . . . . . . . . . . . . . . . . . . . . . . . . . . . . . . . . . . . . . . . . . . . . . . . . . . . . . . . . . . . . . . . . . . . . . 7 7 7 7 7 7 7 7 7 7 7 7 . . . . . . . . . . . . . . . . . 
+. . . . . . . . . . . . . . . . . . . . . . . . . . . . . . . . . . . . . . . . . . . . . . . . . . . . . . . . . . . . . . . . . . . . . . . . . . . . . . . . . . . . . . . . . . . . . . . . . . . . . . . . . . . . . . . . . . . . . . . . . . . . . . . . . . . . . . . . . . 7 e e 7 7 . . . . . . . . . . . . . . . . . 
+. . . . . . . . . . . . . . . . . . . . . . . . . . . . . . . . . . . . . . . . . . . . . . . . . . . . . . . . . . . . . . . . . . . . . . . . . . . . . . . . . . . . . . . . . . . . . . . . . . . . . . . . . . . . . . . . . . . . . . . . . . . . . . . . . . . . . . . . . . 7 e e 7 7 . . . . . . . . . . . . . . . . . 
+. . . . . . . . . . . . . . . . . . . . . . . . . . . . . . . . . . . . . . . . . . . . . . . . . . . . . . . . . . . . . . . . . . . . . . . . . . . . . . . . . . . . . . . . . . . . . . . . . . . . . . . . . . . . . . . . . . . . . . . . . . . . . . . . . . . . . . . . . . 7 e e 7 7 . . . . . . . . . . . . . . . . . 
+. . . . . . . . . . . . . . . . . . . . . . . . . . . . . . . . . . . . . . . . . . . . . . . . . . . . . . . . . . . . . . . . . . . . . . . . . . . . . . . . . . . . . . . . . . . . . . . . . . . . . . . . . . . . . . . . . . . . . . . . . . . . . . . . . . . . . . . . . 7 . . e 7 7 . . . . . . . . . . . . . . . . . 
+`)
 let mySprite = sprites.create(img`
 . . . . . . . . . . . . . . . . 
 . . . . . . . . . . . . . . . . 
